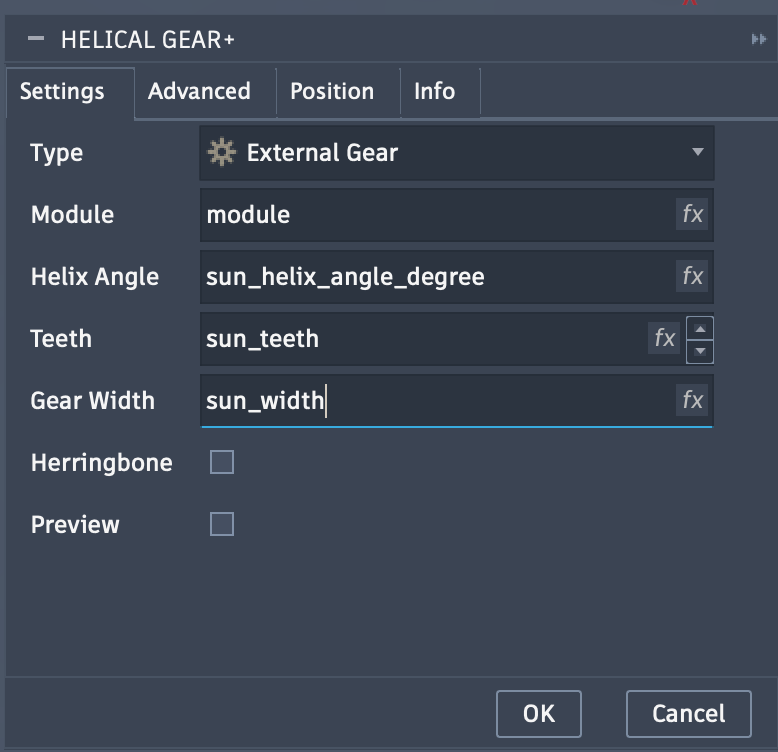
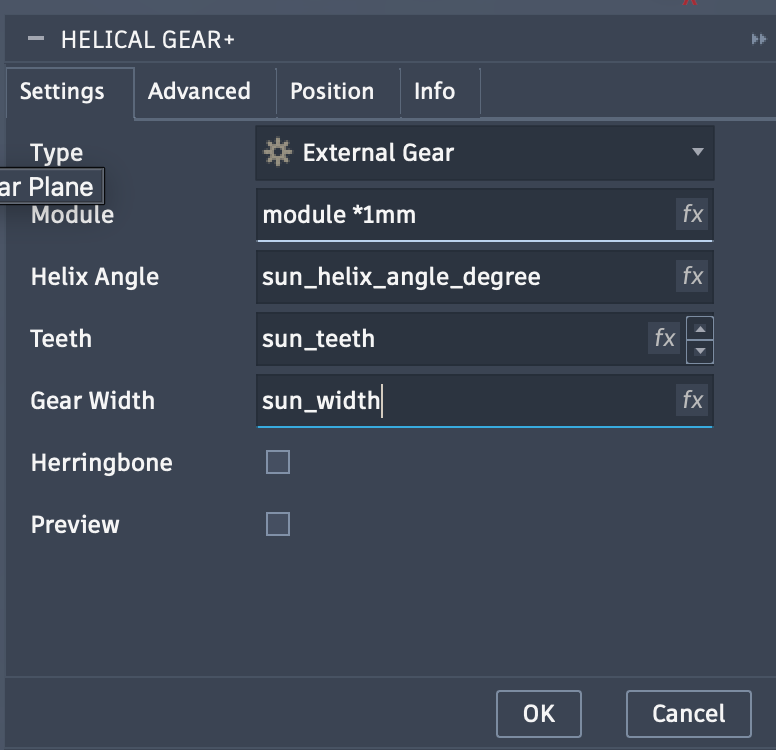
.

diff --git a/README.md b/README.md
@@ -68,7 +68,7 @@ Fill the fields with the sun gear params
 
 (_Advanced config will be the same for planet and ring_)
 
-![](assets/all%20gears%20.png)
+![](assets/advanced%20config.png)
 
 In the same manner create the planet gear
 